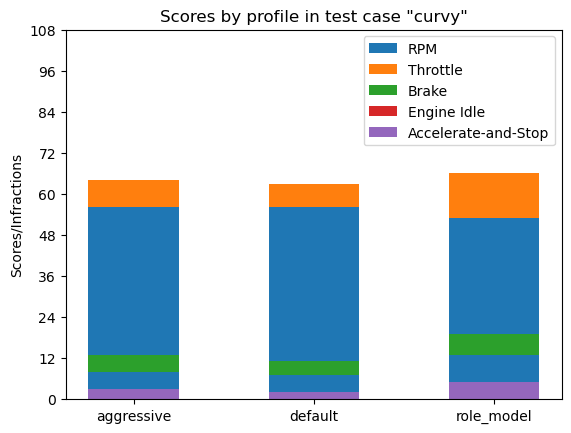
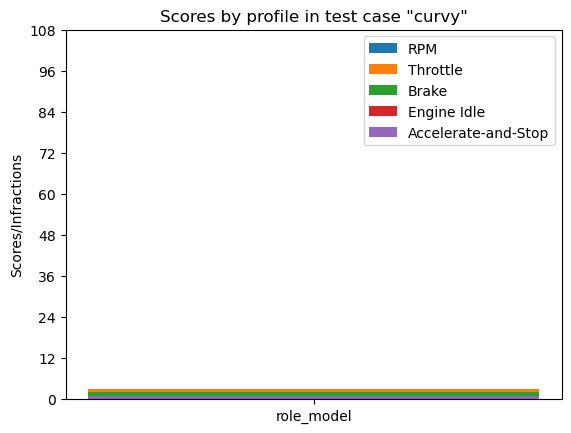
Added role model profile

Changed region(s): [[0.1489, 0.3903, 0.9527, 0.9908]]

diff --git a/test_execution/test_execution.py b/test_execution/test_execution.py
@@ -1,10 +1,13 @@
-from time import sleep
+from math import floor
+
 from beamngpy import BeamNGpy
 from beamngpy.sensors import Electrics, Timer, Damage
 from termcolor import colored
 
 from test_execution.scoring_oracle import MisbehaviourObserver
 from test_execution.test_oracle import TestOracle, TestCaseState, TrafficLightLabel
+from test_execution.engine_types import EngineType
+from utils.utility_functions import get_magnitude_of_3d_vector
 
 
 def run_test_case(converter, dbc, dbe):
@@ -36,6 +39,55 @@ def run_test_case(converter, dbc, dbe):
         label = tllabel.get_traffic_light_label(sensors["timer"]["time"], ego.state)
         oracle.validate_test_case([{"id": "ego", "state": ego.state}], ego.state, sensors["timer"]["time"], label,
                                   [{"id": "ego", "damage": sensors["damage"]["damage"]}])
-        sleep(1)
+    bng.close()
+    return observer.get_results()
+
+
+def run_test_case_role_model(converter, dbc, dbe, engine_type=EngineType.PETROL):
+    print(colored("Starting test case {}.".format(converter.scenario.name), "grey", attrs=['bold']))
+    vehicles = converter.scenario.vehicles
+    ego = None
+    for vehicle in vehicles.keys():
+        if vehicle.vid == "ego":
+            ego = vehicle
+            break
+    assert ego is not None, "At least one vehicle must have vid \"ego\"."
+    beamng = BeamNGpy('localhost', 64286)
+    electrics = Electrics()
+    ego.attach_sensor('electrics', electrics)
+    timer = Timer()
+    ego.attach_sensor("timer", timer)
+    damage = Damage()
+    ego.attach_sensor("damage", damage)
+    observer = MisbehaviourObserver()
+    oracle = TestOracle(converter.scenario, dbc, dbe)
+    tllabel = TrafficLightLabel(converter.get_traffic_lights_position(), converter.traffic_triggers)
+    spots = engine_type.get_rpm_shifting_sweetspots()
+    upper_limit = spots.get("upper_limit")
+    lower_limit = spots.get("lower_limit")
+    bng = beamng.open()
+    bng.load_scenario(converter.scenario)
+    bng.start_scenario()
+    ego.set_shift_mode('realistic_manual_auto_clutch')
+    prev_time = 0
+    while oracle.state == TestCaseState.OK:
+        ego.update_vehicle()
+        sensors = bng.poll_sensors(ego)
+        time = sensors["timer"]["time"]
+        if floor(time) != prev_time:
+            prev_time = floor(time)
+            if sensors['electrics']['values']['rpm'] >= upper_limit and sensors['electrics']['values']['gear'] < 6:
+                next_gear = int(sensors['electrics']['values']['gear']) + 1
+                ego.control(gear=next_gear)
+            elif sensors['electrics']['values']['gear'] > 1 and \
+                    sensors['electrics']['values']['rpm'] < lower_limit:
+                next_gear = int(sensors['electrics']['values']['gear']) - 1
+                ego.control(gear=next_gear)
+            elif get_magnitude_of_3d_vector(ego.state["vel"]) * 3.6 > 15:
+                ego.control(gear=2)
+        observer.validate_infraction(sensors, sensors["timer"]["time"])
+        label = tllabel.get_traffic_light_label(sensors["timer"]["time"], ego.state)
+        oracle.validate_test_case([{"id": "ego", "state": ego.state}], ego.state, time, label,
+                                  [{"id": "ego", "damage": sensors["damage"]["damage"]}])
     bng.close()
     return observer.get_results()

diff --git a/evaluation/fuel_inefficiency/main.py b/evaluation/fuel_inefficiency/main.py
@@ -6,7 +6,7 @@ from shutil import copyfile
 import matplotlib.pyplot as plt
 from numpy import arange
 
-from test_execution.test_execution import run_test_case
+from test_execution.test_execution import run_test_case, run_test_case_role_model
 from xml_converter.xml_to_bng_files import convert_test
 
 
@@ -55,7 +55,6 @@ def visualize_results(results, name):
 
 
 def main():
-    # TODO create profiles
     test_cases = glob(join("test_cases", "*"))
     assert exists(ENV["BNG_HOME"]), "Please set your BNG_HOME variable to BeamNG's trunk folder."
     ai_path = join(ENV["BNG_HOME"], "lua", "vehicle", "ai.lua")
@@ -67,9 +66,14 @@ def main():
         converter = convert_test(files[0], files[1])
         profiles = glob(join("ai_profiles", "*"))
         for profile in profiles:
+            if not profile.endswith("role_model"):
+                continue
             copyfile(join(profile, "ai.lua"), ai_path)
             profile_name = profile.split("\\")[-1]
-            results.append({"profile": profile_name, "results": run_test_case(converter, files[0], files[1])})
+            if profile_name == "role_model":
+                results.append({"profile": profile_name, "results": run_test_case_role_model(converter, files[0], files[1])})
+            else:
+                results.append({"profile": profile_name, "results": run_test_case(converter, files[0], files[1])})
         test_case_name = test_case.split("\\")[-1]
         visualize_results(results, test_case_name)
     copyfile(join("ai_profiles", "default", "ai.lua"), ai_path)

diff --git a/test_execution/scoring_oracle.py b/test_execution/scoring_oracle.py
@@ -82,7 +82,7 @@ class MisbehaviourObserver:
         :param rpm: Current rpm of the vehicle.
         :return: Void.
         """
-        upper_limit = self.engine_type.get_rpm_shifting_sweetspots()['upper_limit']
+        upper_limit = self.engine_type.get_rpm_shifting_sweetspots()['upper_limit'] + 100
         if rpm > upper_limit:
             self.rpm_infractions += 1
             increase = 180
